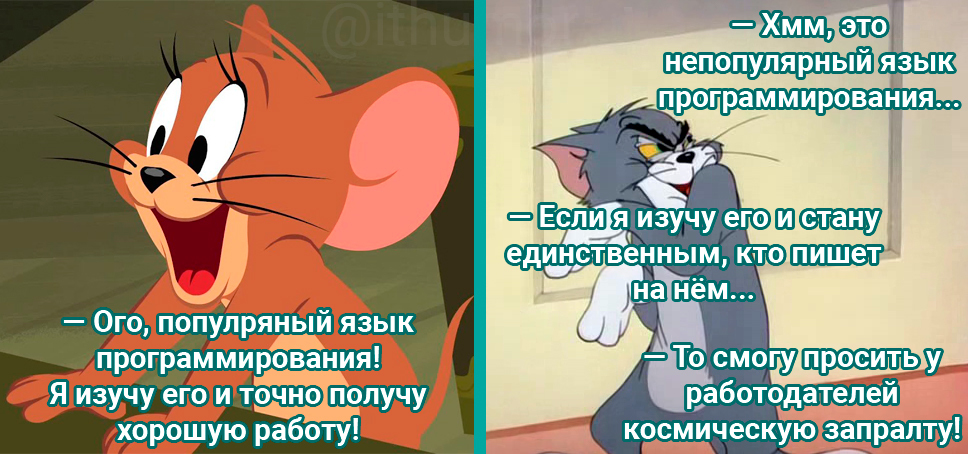
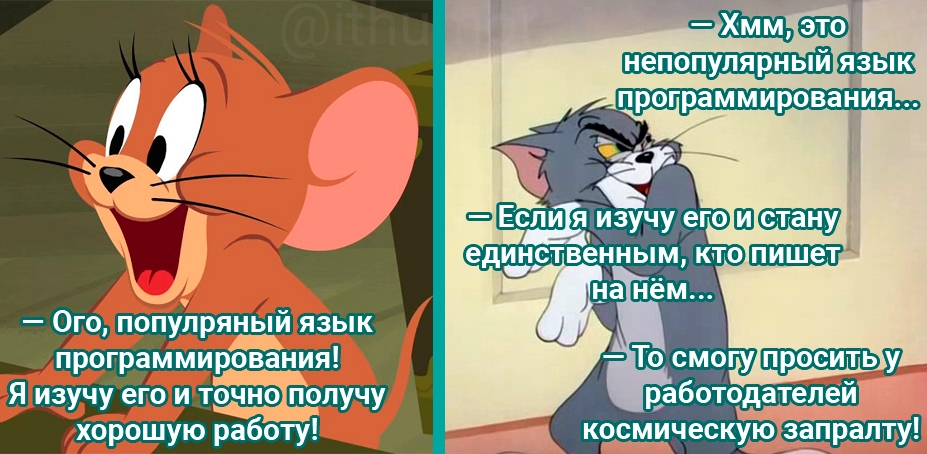
feat: feat: add media querie and update jpg file Mon Sep 18 2023 21:38:19 GMT+0300

diff --git a/cssMemeSlider/src/style.css b/cssMemeSlider/src/style.css
@@ -131,6 +131,12 @@ input:checked+label:hover>.mark {
   transform: translateX(-75%);
 }
 
+@media (min-width:1300px) {
+  .container {
+    width: 60%;
+  }
+}
+
 @media (max-width:800px) {
   .slider_wrap {
     height: 70vw;
@@ -154,5 +160,9 @@ input:checked+label:hover>.mark {
   .inputs {
     order: 1;
     justify-content: center;
+  }
+
+  .content p {
+    font-size: 0.8em;
   }
 }
